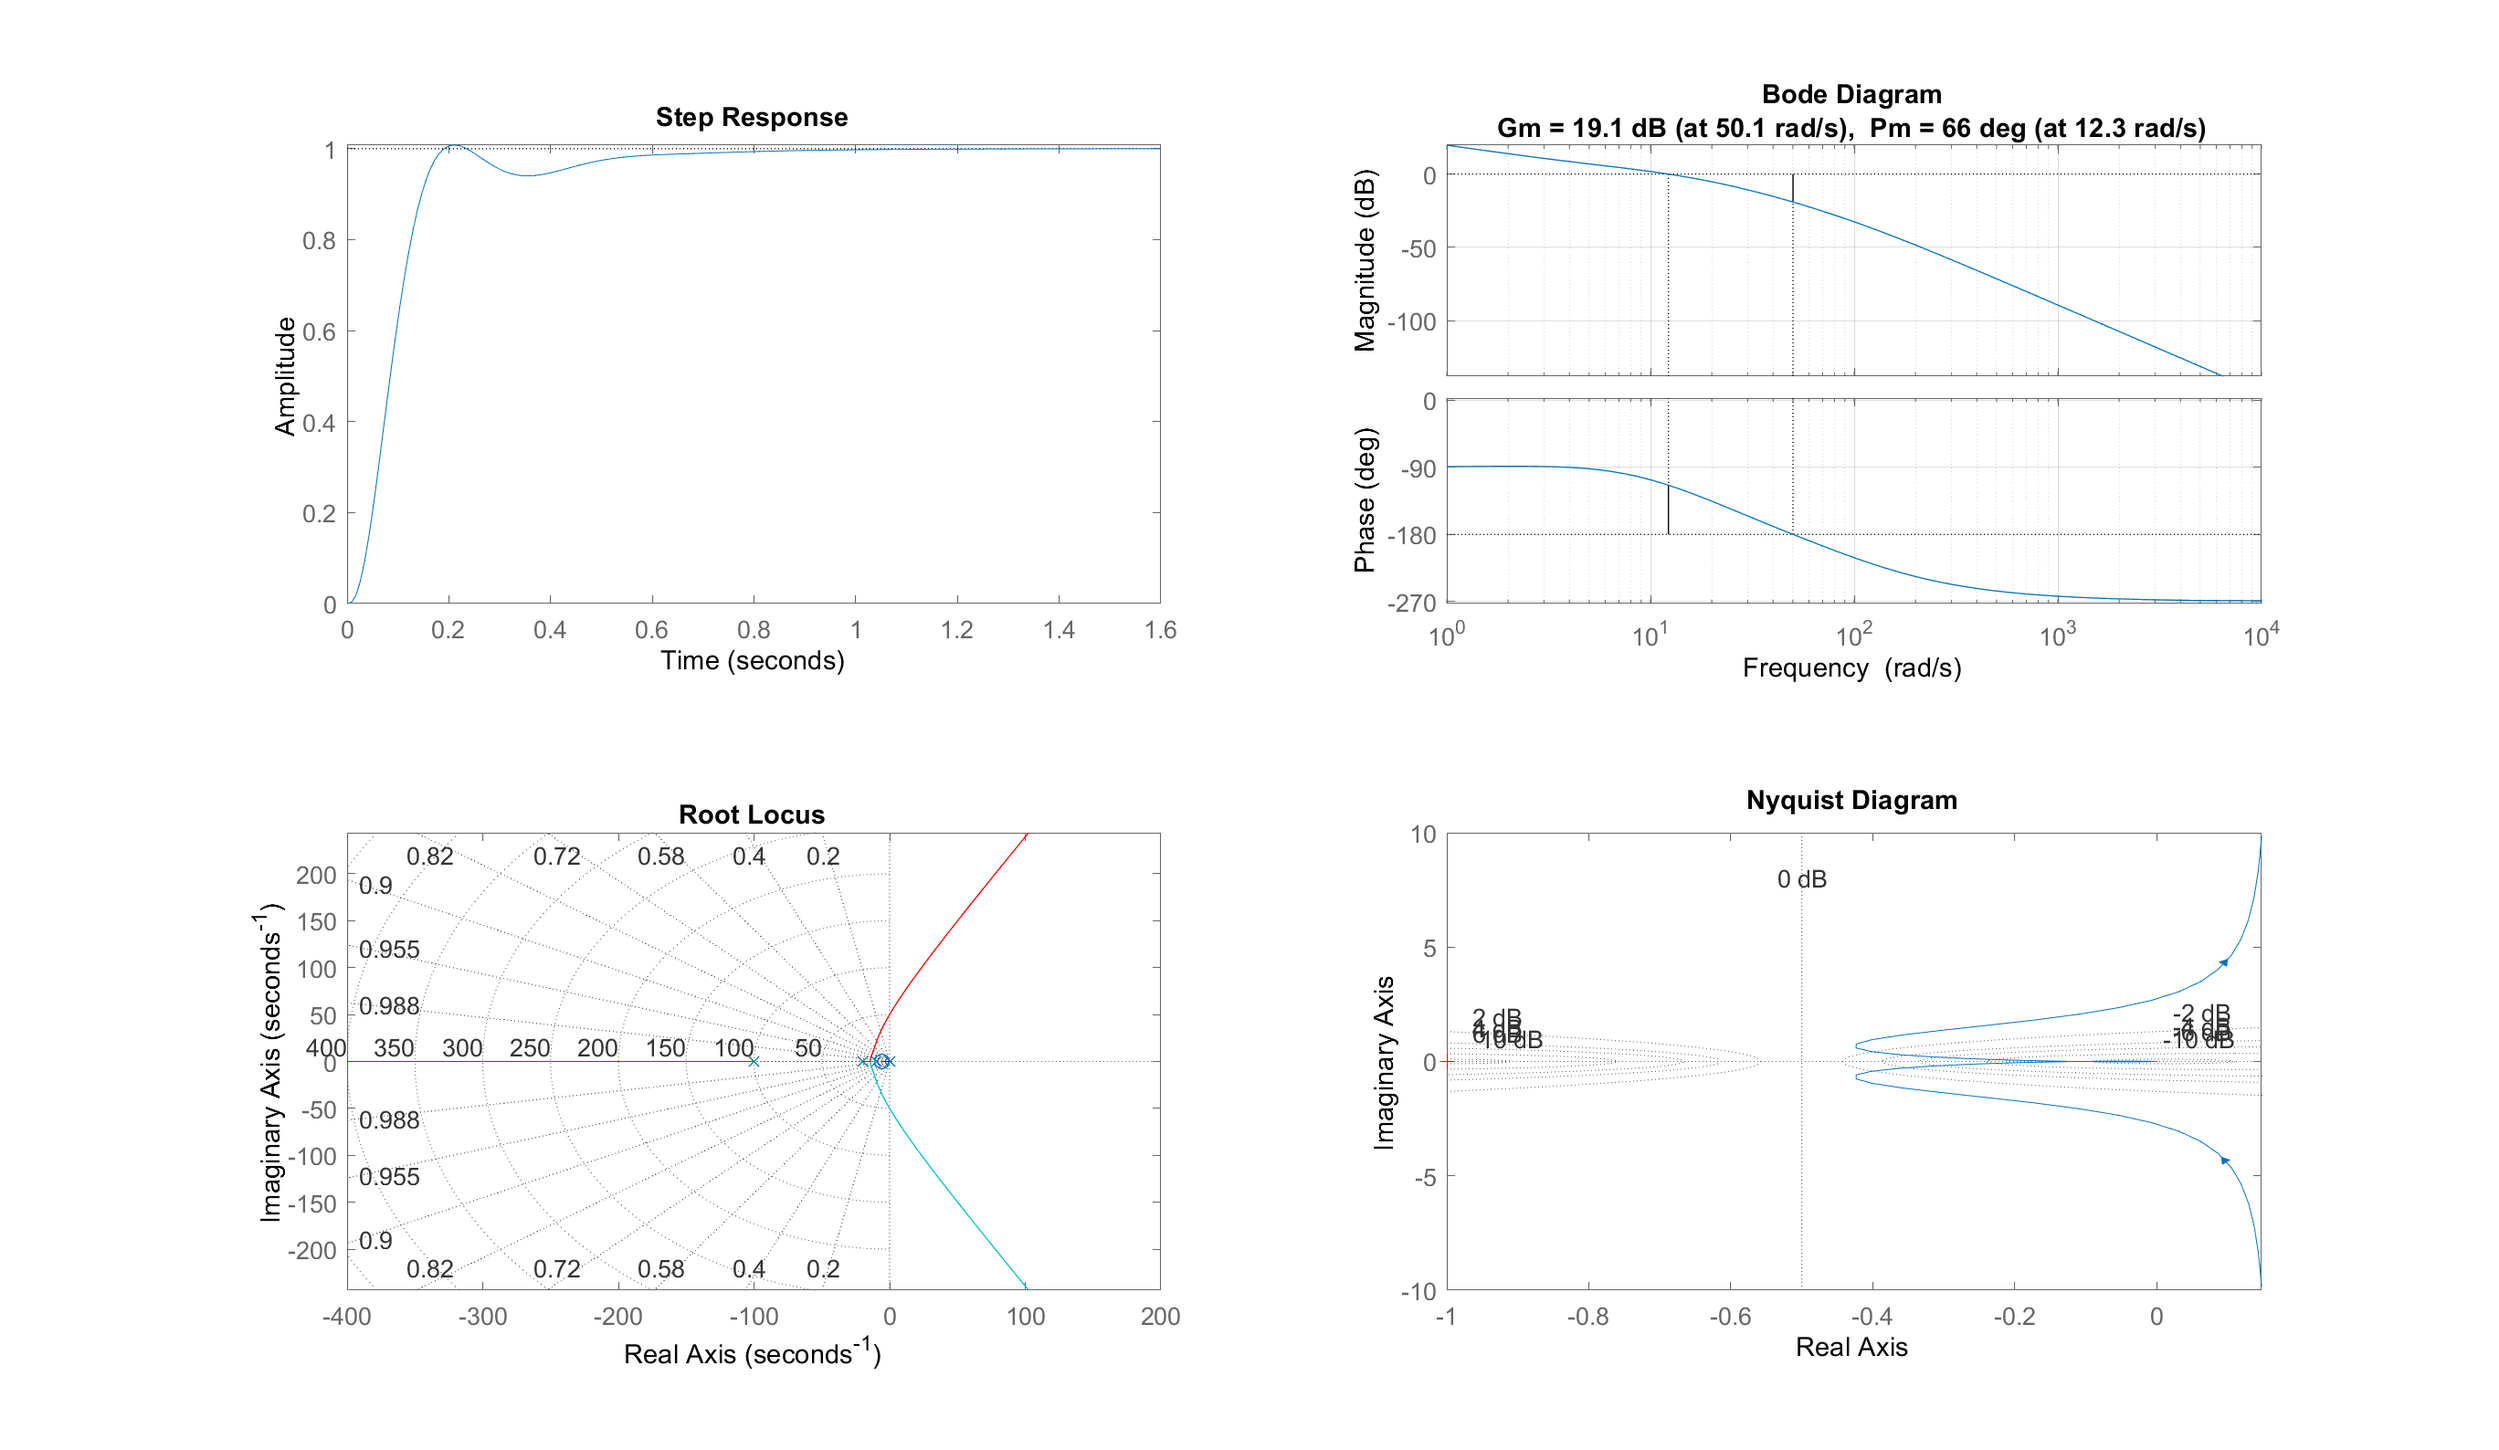
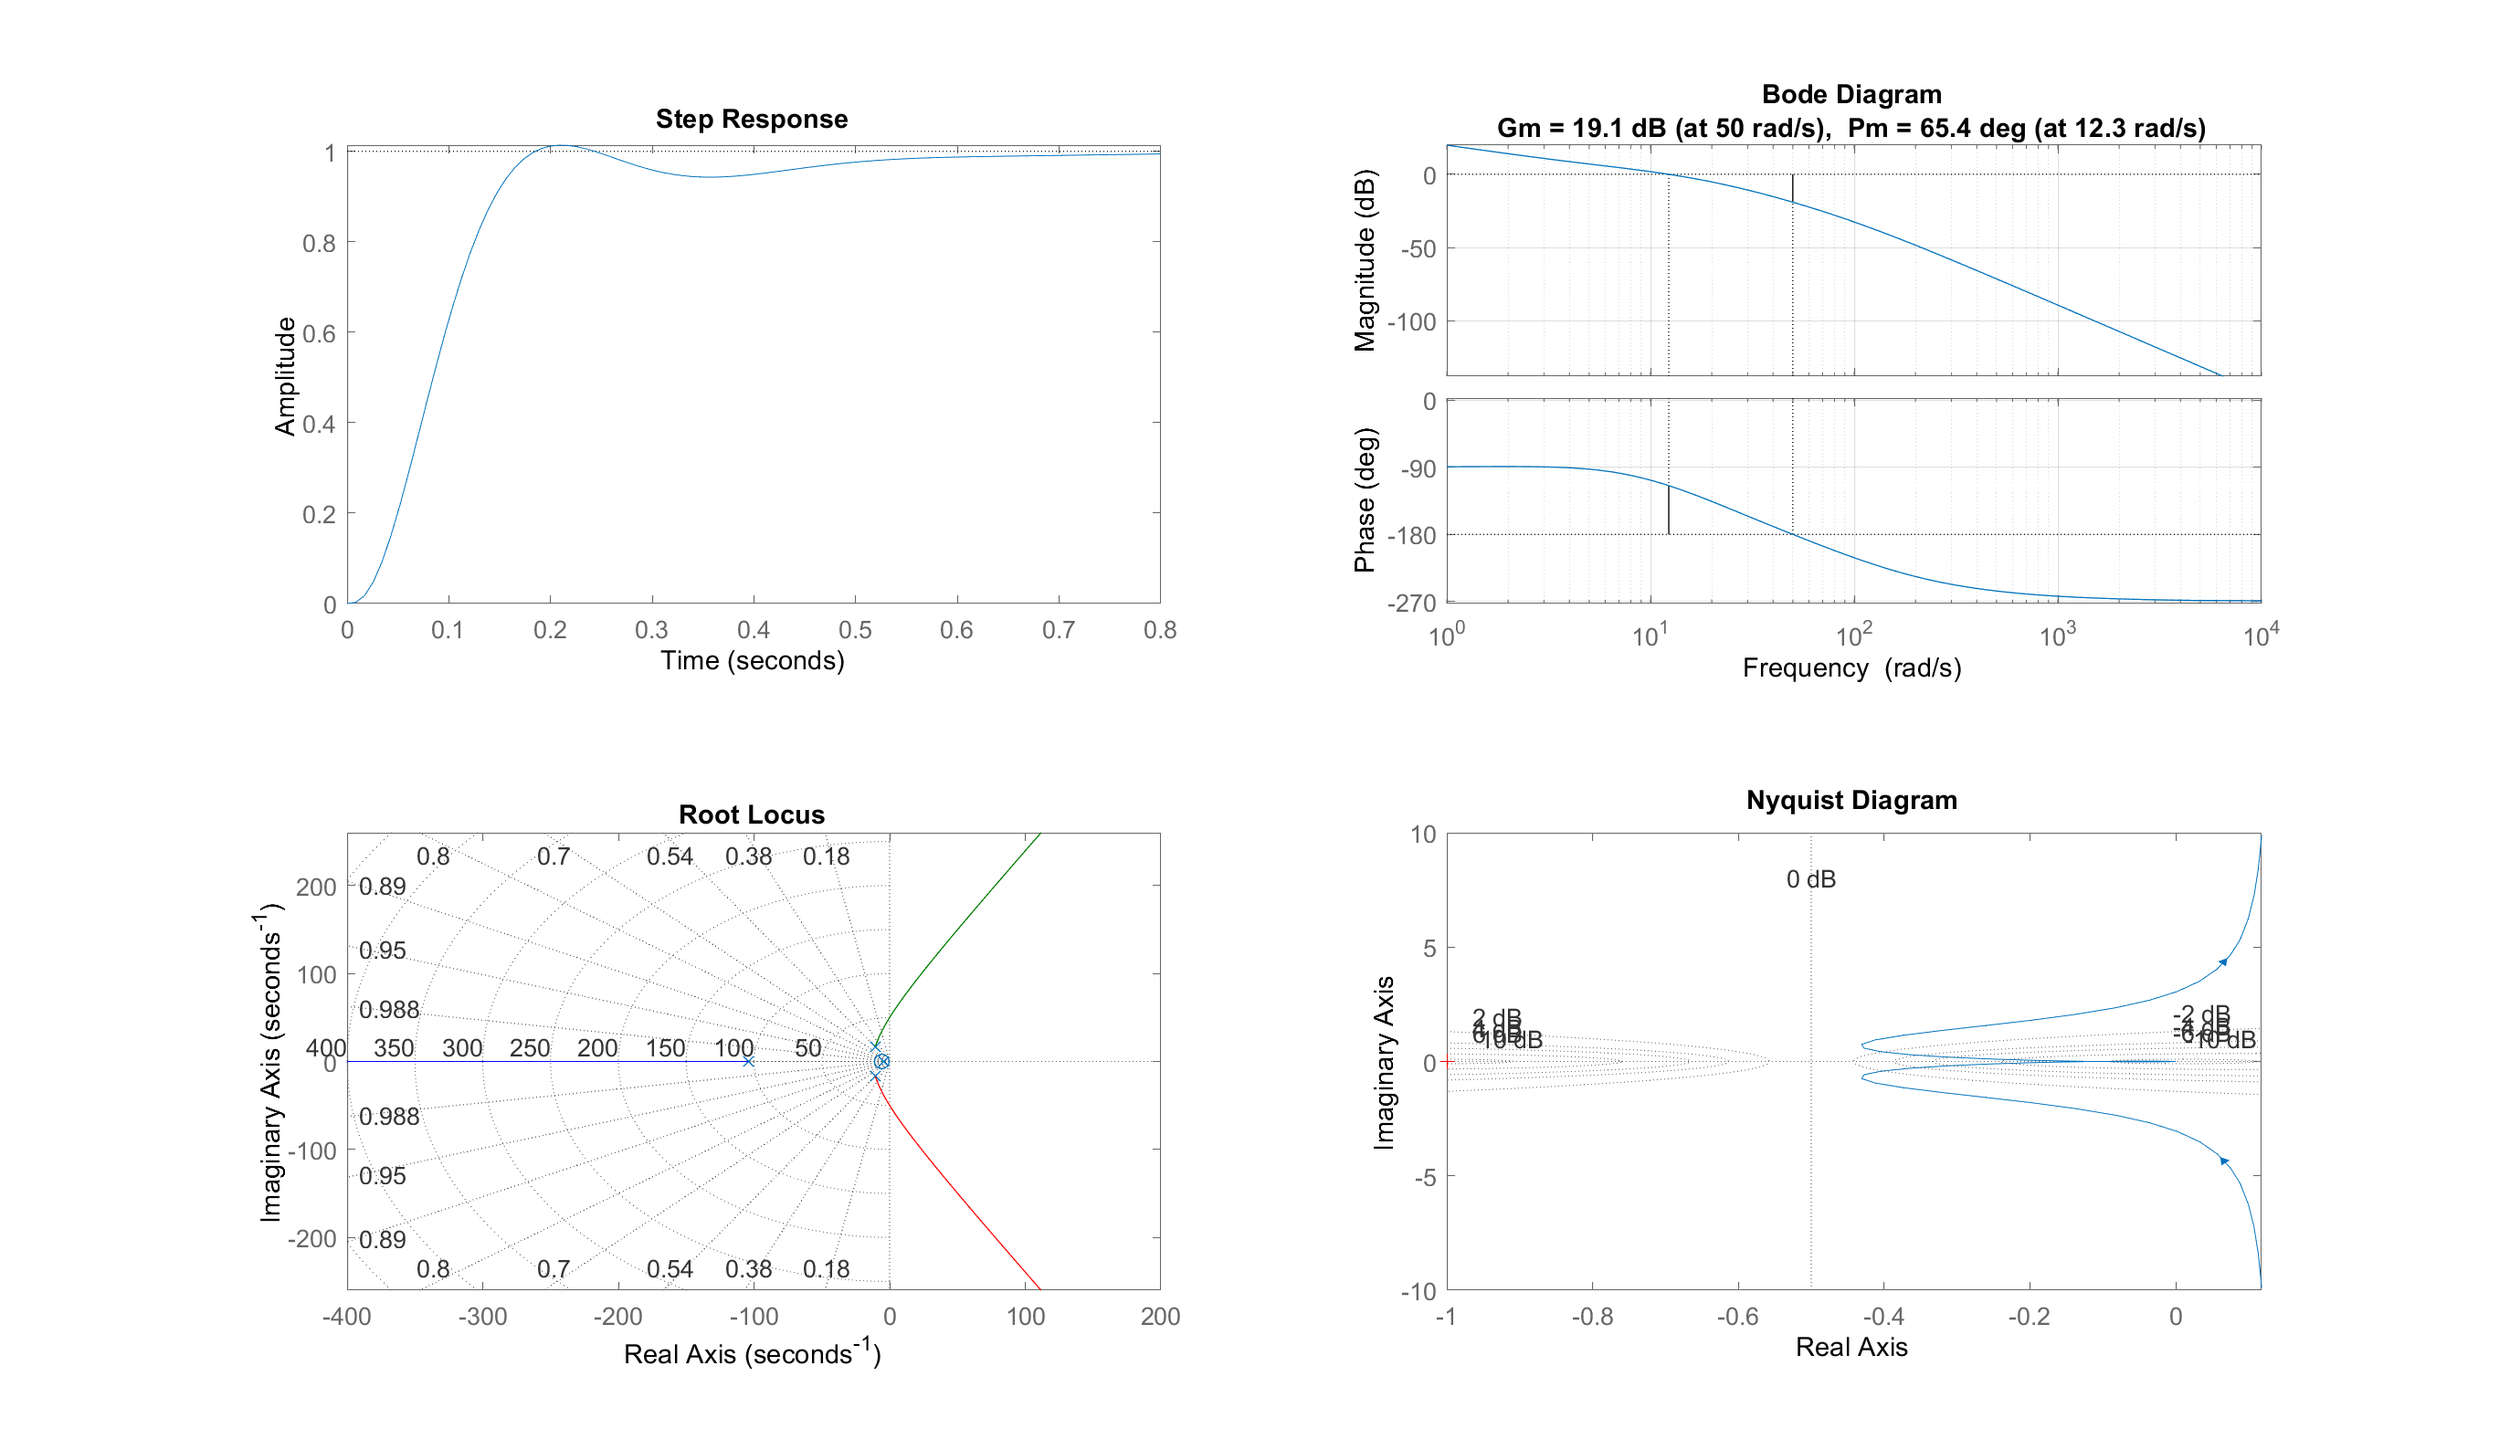
change name

diff --git a/functions/PlotSysAll.m b/functions/PlotSysAll.m
@@ -4,11 +4,13 @@ function [Gain_Margin, Phase_Margin, Wcg, Wcp] = PlotSysAll(sys)
 % Noted that the given parameter is open-loop transfer function 'L'
 % Step respond
 subplot(2,2,1);
-step(feedback(sys, 1));                               
+ol_sys = sys;
+cl_sys = feedback(sys, 1);
+step(cl_sys);                               
 
 % Bode diagram with margin
 subplot(2,2,2);
-margin(sys);
+margin(ol_sys);
 grid on;
 [Gain_Margin,Phase_Margin, Wcg, Wcp] = margin(sys);
 
@@ -19,6 +21,6 @@ grid on;
 
 % Root locus 
 subplot(2,2,3)
-rlocus(sys);
+rlocus(cl_sys);
 grid on; 
 end

diff --git a/ReferenceTracking.m b/ReferenceTracking.m
@@ -30,19 +30,6 @@ figure();
 stepinfo(P_ControlledCLSys)
 PlotSysAll(P_ControlledSys)
 
-% PI controller
-Kp = 0.15;
-Ki = 0.1;
-Kd = 0;
-Tf = 0.01;
-PI = pid(Kp, Ki, Kd, Tf);
-
-PI_ControlledSys = L * PI;
-PI_ControlledCLSys = feedback(PI_ControlledSys, 1);
-figure();
-stepinfo(PI_ControlledCLSys)
-PlotSysAll(PI_ControlledSys)
-
 % PD controller
 Kp = 0.49;
 Ki = 0;
